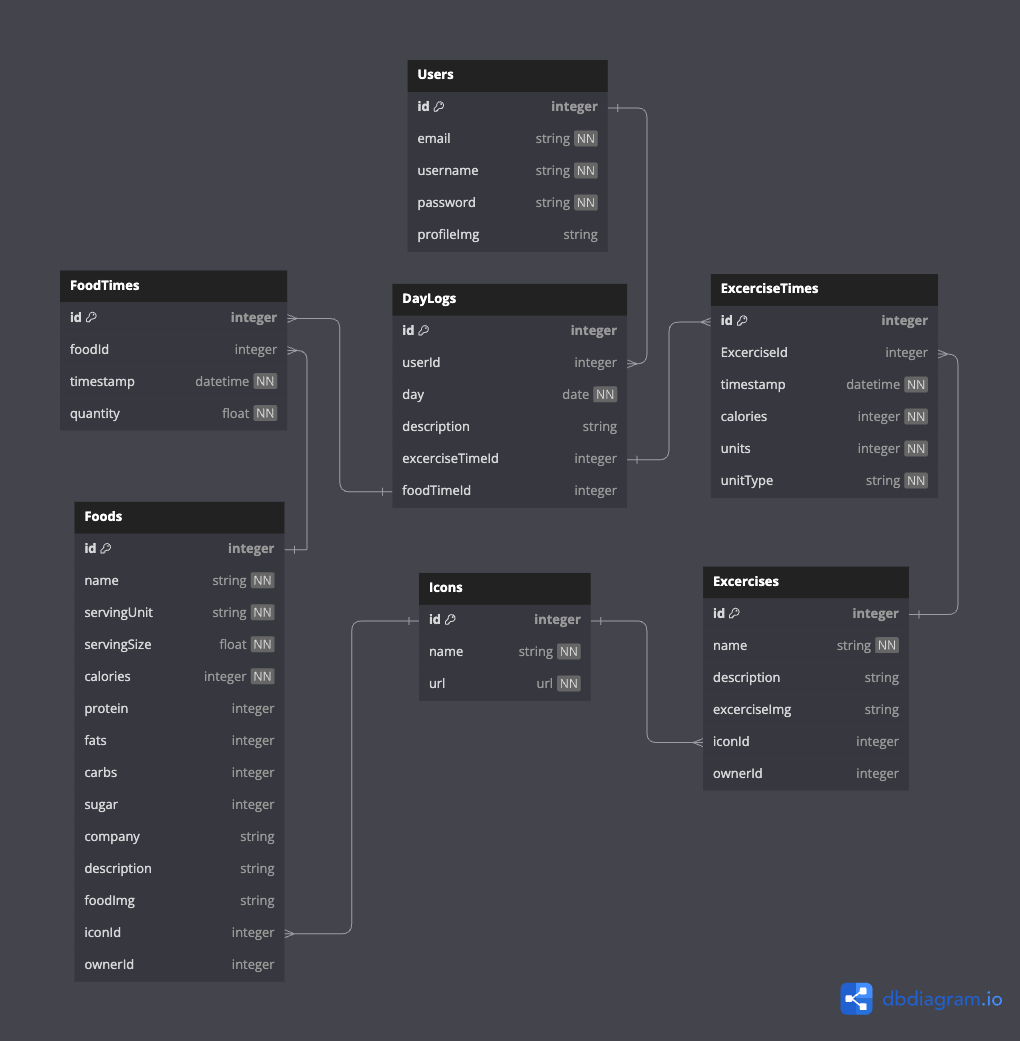
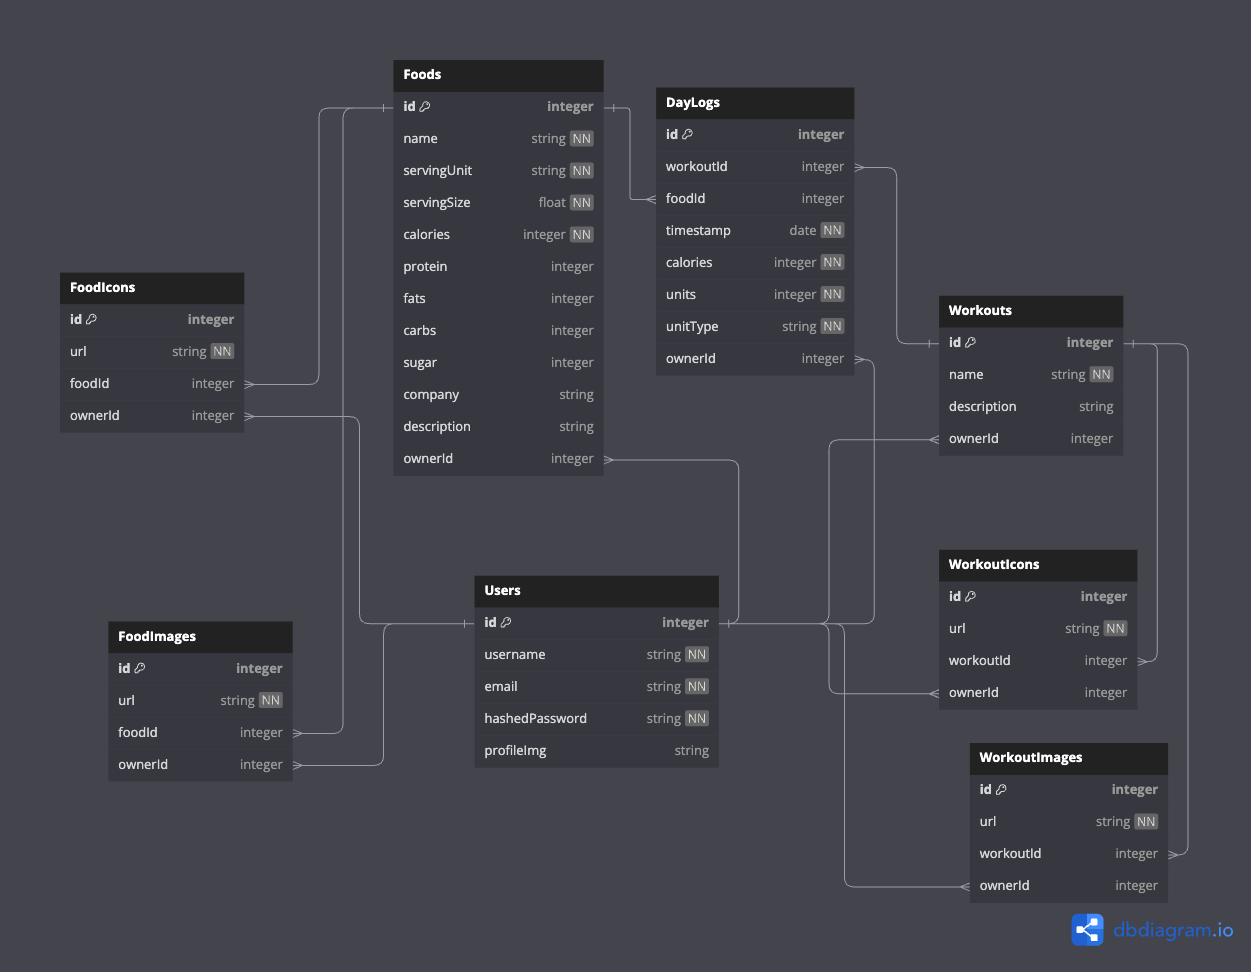
New Migration Files for new DB. . Readme.MD image update to show new DB SCHEMA

diff --git a/backend/db/migrations/06-WorkoutIcons.js b/backend/db/migrations/06-WorkoutIcons.js
@@ -1,7 +1,7 @@
 'use strict';
 
 let options = {};
-options.tableName = 'Foods';
+options.tableName = 'WorkoutIcons';
 if (process.env.NODE_ENV === 'production') {
   options.schema = process.env.SCHEMA;  // schema defined in options object
 }
@@ -15,50 +15,25 @@ module.exports = {
         primaryKey: true,
         type: Sequelize.INTEGER
       },
-      name: {
-        type: Sequelize.STRING(30),
+      url: {
+        type: Sequelize.STRING(255),
         allowNull: false
       },
-      servingSize: {
-        type: Sequelize.DECIMAL,
-        allowNull: false,
-      },
-      servingUnit: {
-        type: Sequelize.STRING(30),
-        allowNull: false,
-      },
-      calories: {
+      foodId: {
         type: Sequelize.INTEGER,
         allowNull: false,
-      },
-      protein: {
-        type: Sequelize.INTEGER,
-        allowNull: true,
-      },
-      fats: {
-        type: Sequelize.INTEGER,
-        allowNull: true,
-      },
-      carbs: {
-        type: Sequelize.INTEGER,
-        allowNull: true,
-      },
-      sugar: {
-        type: Sequelize.INTEGER,
-        allowNull: true,
-      },
-      company: {
-        type: Sequelize.STRING(30),
-        allowNull: true,
-      },
-      description: {
-        type: Sequelize.STRING(500),
-        allowNull: true,
       },
       ownerId: {
         type: Sequelize.INTEGER,
+        allowNull: false,
         references: { model: 'Users' },
-        allowNull: true,
+        onDelete: 'CASCADE'
+      },
+      workoutId: {
+        type: Sequelize.INTEGER,
+        allowNull: false,
+        references: { model: 'Workouts' },
+        onDelete: 'CASCADE'
       },
       createdAt: {
         allowNull: false,

diff --git a/backend/db/migrations/08-DayLogs.js b/backend/db/migrations/08-DayLogs.js
@@ -1,7 +1,7 @@
 'use strict';
 
 let options = {};
-options.tableName = 'ExcerciseTimes';
+options.tableName = 'DayLogs';
 if (process.env.NODE_ENV === 'production') {
   options.schema = process.env.SCHEMA;  // schema defined in options object
 }
@@ -15,11 +15,25 @@ module.exports = {
         primaryKey: true,
         type: Sequelize.INTEGER
       },
-      excerciseId:{
+      ownerId: {
         type: Sequelize.INTEGER,
         allowNull: false,
+        references: { model: 'Users' },
+        onDelete: 'CASCADE'
       },
-      timestamp:{
+      foodId: {
+        type: Sequelize.INTEGER,
+        allowNull: false,
+        references: { model: 'Foods' },
+        onDelete: 'CASCADE'
+      },
+      workoutId: {
+        type: Sequelize.INTEGER,
+        allowNull: false,
+        references: { model: 'Workouts' },
+        onDelete: 'CASCADE'
+      },
+      timestamp: {
         type: Sequelize.DATE,
         allowNull: false,
       },
@@ -32,7 +46,7 @@ module.exports = {
         allowNull: false,
       },
       unitType: {
-        type: Sequelize.STRING(30),
+        type: Sequelize.INTEGER,
         allowNull: false,
       },
       createdAt: {

diff --git a/backend/db/migrations/04-FoodIcons.js b/backend/db/migrations/04-FoodIcons.js
@@ -1,7 +1,7 @@
 'use strict';
 
 let options = {};
-options.tableName = 'Excercises';
+options.tableName = 'FoodIcons';
 if (process.env.NODE_ENV === 'production') {
   options.schema = process.env.SCHEMA;  // schema defined in options object
 }
@@ -15,26 +15,21 @@ module.exports = {
         primaryKey: true,
         type: Sequelize.INTEGER
       },
-      name: {
-        type: Sequelize.STRING(30),
+      url: {
+        type: Sequelize.STRING(255),
         allowNull: false
       },
-      description: {
-        type: Sequelize.STRING(500),
-        allowNull: true,
-      },
-      excerciseImg: {
-        type: Sequelize.STRING(255),
-        allowNull: false,
-        defaultValue: ""
-      },
-      iconId: {
+      foodId: {
         type: Sequelize.INTEGER,
-        allowNull: true,
+        allowNull: false,
+        references: { model: 'Foods' },
+        onDelete: 'CASCADE'
       },
       ownerId: {
         type: Sequelize.INTEGER,
         allowNull: false,
+        references: { model: 'Users' },
+        onDelete: 'CASCADE'
       },
       createdAt: {
         allowNull: false,

diff --git a/backend/db/migrations/03-Workouts.js b/backend/db/migrations/03-Workouts.js
@@ -1,7 +1,7 @@
 'use strict';
 
 let options = {};
-options.tableName = 'DayLogs';
+options.tableName = 'Workouts';
 if (process.env.NODE_ENV === 'production') {
   options.schema = process.env.SCHEMA;  // schema defined in options object
 }
@@ -15,25 +15,19 @@ module.exports = {
         primaryKey: true,
         type: Sequelize.INTEGER
       },
-      userId:{
-        type: Sequelize.INTEGER,
-        allowNull: false,
-      },
-      day:{
-        type: Sequelize.DATE,
-        allowNull: false,
+      name: {
+        type: Sequelize.STRING(30),
+        allowNull: false
       },
       description: {
-        type: Sequelize.STRING(512),
+        type: Sequelize.STRING(500),
         allowNull: true,
       },
-      excerciseTimeId: {
+      ownerId: {
         type: Sequelize.INTEGER,
-        allowNull: true
-      },
-      foodTimeId: {
-        type: Sequelize.INTEGER,
-        allowNull: true
+        allowNull: false,
+        references: { model: 'Users' },
+        onDelete: 'CASCADE'
       },
       createdAt: {
         allowNull: false,

diff --git a/backend/db/migrations/07-WorkoutImages.js b/backend/db/migrations/07-WorkoutImages.js
@@ -1,7 +1,7 @@
 'use strict';
 
 let options = {};
-options.tableName = 'Icons';
+options.tableName = 'WorkoutImages';
 if (process.env.NODE_ENV === 'production') {
   options.schema = process.env.SCHEMA;  // schema defined in options object
 }
@@ -15,13 +15,25 @@ module.exports = {
         primaryKey: true,
         type: Sequelize.INTEGER
       },
-      name:{
-        type: Sequelize.STRING(30),
-        allowNull: false,
-      },
       url: {
         type: Sequelize.STRING(255),
-        allowNull: true
+        allowNull: false
+      },
+      foodId: {
+        type: Sequelize.INTEGER,
+        allowNull: false,
+      },
+      ownerId: {
+        type: Sequelize.INTEGER,
+        allowNull: false,
+        references: { model: 'Users' },
+        onDelete: 'CASCADE'
+      },
+      workoutId: {
+        type: Sequelize.INTEGER,
+        allowNull: false,
+        references: { model: 'Workouts' },
+        onDelete: 'CASCADE'
       },
       createdAt: {
         allowNull: false,

diff --git a/backend/db/migrations/05-FoodImages.js b/backend/db/migrations/05-FoodImages.js
@@ -1,7 +1,7 @@
 'use strict';
 
 let options = {};
-options.tableName = 'FoodTimes';
+options.tableName = 'FoodImages';
 if (process.env.NODE_ENV === 'production') {
   options.schema = process.env.SCHEMA;  // schema defined in options object
 }
@@ -15,17 +15,21 @@ module.exports = {
         primaryKey: true,
         type: Sequelize.INTEGER
       },
-      foodId:{
+      url: {
+        type: Sequelize.STRING(255),
+        allowNull: false
+      },
+      foodId: {
         type: Sequelize.INTEGER,
         allowNull: false,
+        references: { model: 'Foods' },
+        onDelete: 'CASCADE'
       },
-      timestamp:{
-        type: Sequelize.DATE,
-        allowNull: false,
-      },
-      quantity: {
+      ownerId: {
         type: Sequelize.INTEGER,
         allowNull: false,
+        references: { model: 'Users' },
+        onDelete: 'CASCADE'
       },
       createdAt: {
         allowNull: false,

diff --git a/backend/db/models/excercisetimes.js b/backend/db/models/excercisetimes.js
@@ -4,7 +4,7 @@ const {
   Validator
 } = require('sequelize');
 module.exports = (sequelize, DataTypes) => {
-  class ExcerciseTimes extends Model {
+  class ExcerciseTime extends Model {
     /**
      * Helper method for defining associations.
      * This method is not a part of Sequelize lifecycle.
@@ -14,7 +14,7 @@ module.exports = (sequelize, DataTypes) => {
       // define association here
     }
   }
-  ExcerciseTimes.init({
+  ExcerciseTime.init({
     excerciseId: {
       type: DataTypes.INTEGER,
       allowNull: false
@@ -37,12 +37,12 @@ module.exports = (sequelize, DataTypes) => {
     }
   }, {
     sequelize,
-    modelName: 'ExcerciseTimes',
+    modelName: 'ExcerciseTime',
     defaultScope: {
       attributes: {
         exclude: ["createdAt", "updatedAt"]
       }
     }
   });
-  return ExcerciseTimes;
+  return ExcerciseTime;
 };

diff --git a/backend/db/models/icons.js b/backend/db/models/icons.js
@@ -4,7 +4,7 @@ const {
   Validator
 } = require('sequelize');
 module.exports = (sequelize, DataTypes) => {
-  class Icons extends Model {
+  class Icon extends Model {
     /**
      * Helper method for defining associations.
      * This method is not a part of Sequelize lifecycle.
@@ -14,7 +14,7 @@ module.exports = (sequelize, DataTypes) => {
       // define association here
     }
   }
-  Icons.init({
+  Icon.init({
     name: {
       type: DataTypes.STRING(30),
       allowNull: false
@@ -25,12 +25,12 @@ module.exports = (sequelize, DataTypes) => {
     }
   }, {
     sequelize,
-    modelName: 'Icons',
+    modelName: 'Icon',
     defaultScope: {
       attributes: {
         exclude: ["createdAt", "updatedAt"]
       }
     }
   });
-  return Icons;
+  return Icon;
 };

diff --git a/backend/db/models/daylogs.js b/backend/db/models/daylogs.js
@@ -11,10 +11,7 @@ module.exports = (sequelize, DataTypes) => {
      * The `models/index` file will call this method automatically.
      */
     static associate(models) {
-      // define association here
       DayLog.belongsTo(models.User, { foreignKey: 'userId' });
-      DayLog.belongsTo(models.ExerciseTime, { foreignKey: 'excerciseTimeId' });
-      DayLog.belongsTo(models.FoodTime, { foreignKey: 'foodTimeId' });
     }
   }
   DayLog.init({

diff --git a/backend/db/models/user.js b/backend/db/models/user.js
@@ -12,6 +12,7 @@ module.exports = (sequelize, DataTypes) => {
      */
     static associate(models) {
       // define association here
+      User.hasMany(models.DayLog, {foreignKey: 'userId'})
     }
   }
   User.init({
